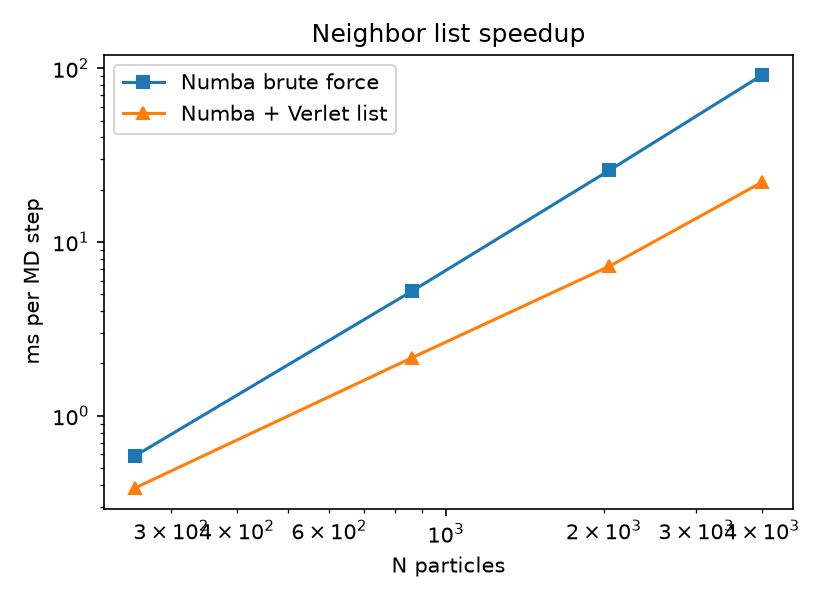
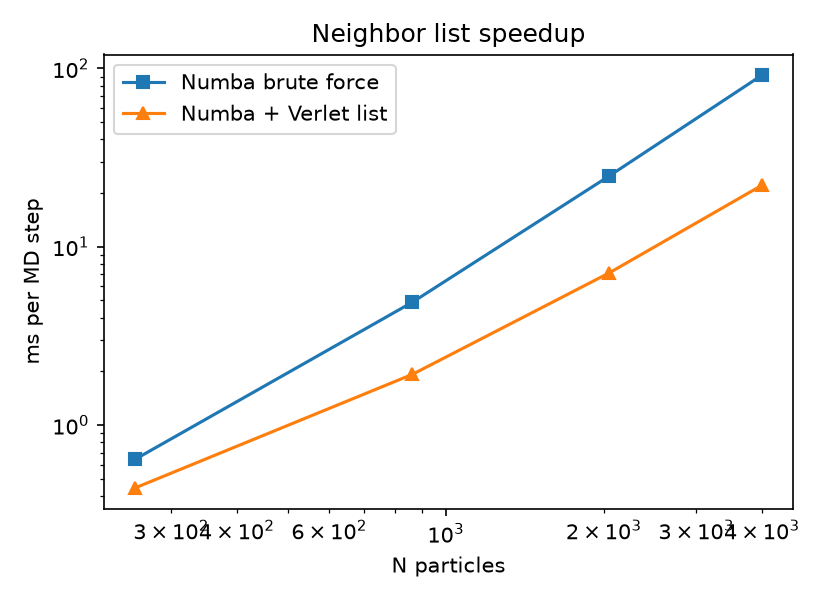
Add O(N) cell-list neighbor list construction and scaling benchmark

diff --git a/src/mdlite/cells.py b/src/mdlite/cells.py
@@ -1,0 +1,72 @@
+"""Cell-list (linked-cell) construction of the Verlet pair list in O(N).
+
+The box is divided into nc^3 cubic cells, each at least r_list wide. Only pairs in the
+same or adjacent cells are examined. Requires nc >= 3 so no neighbor cell is visited twice.
+"""
+
+import math
+
+import numpy as np
+from numba import njit
+
+
+def n_cells_per_dim(box: float, r_list: float) -> int:
+    return int(math.floor(box / r_list))
+
+
+@njit(cache=True)
+def _cell_pairs(pos, box, r_list, nc, fill, pair_i, pair_j):
+    n = pos.shape[0]
+    rl2 = r_list * r_list
+    cell_size = box / nc
+    head = np.full(nc * nc * nc, -1, np.int32)
+    nxt = np.full(n, -1, np.int32)
+    for i in range(n):
+        cx = int(math.floor(pos[i, 0] / cell_size)) % nc
+        cy = int(math.floor(pos[i, 1] / cell_size)) % nc
+        cz = int(math.floor(pos[i, 2] / cell_size)) % nc
+        c = (cx * nc + cy) * nc + cz
+        nxt[i] = head[c]
+        head[c] = i
+    count = 0
+    for cx in range(nc):
+        for cy in range(nc):
+            for cz in range(nc):
+                c = (cx * nc + cy) * nc + cz
+                for ox in range(-1, 2):
+                    for oy in range(-1, 2):
+                        for oz in range(-1, 2):
+                            c2 = (((cx + ox) % nc) * nc + (cy + oy) % nc) * nc + (cz + oz) % nc
+                            i = head[c]
+                            while i != -1:
+                                j = head[c2]
+                                while j != -1:
+                                    if j > i:
+                                        dx = pos[i, 0] - pos[j, 0]
+                                        dy = pos[i, 1] - pos[j, 1]
+                                        dz = pos[i, 2] - pos[j, 2]
+                                        dx -= box * math.floor(dx / box + 0.5)
+                                        dy -= box * math.floor(dy / box + 0.5)
+                                        dz -= box * math.floor(dz / box + 0.5)
+                                        if dx * dx + dy * dy + dz * dz < rl2:
+                                            if fill:
+                                                pair_i[count] = i
+                                                pair_j[count] = j
+                                            count += 1
+                                    j = nxt[j]
+                                i = nxt[i]
+    return count
+
+
+def build_pairs_cells(pos, box, r_list):
+    """Return (pair_i, pair_j) with i < j for all pairs closer than r_list."""
+    nc = n_cells_per_dim(box, r_list)
+    if nc < 3:
+        raise ValueError("cell list needs at least 3 cells per dimension")
+    pos = np.ascontiguousarray(pos, dtype=np.float64)
+    dummy = np.empty(0, dtype=np.int32)
+    count = _cell_pairs(pos, float(box), float(r_list), nc, False, dummy, dummy)
+    pair_i = np.empty(count, dtype=np.int32)
+    pair_j = np.empty(count, dtype=np.int32)
+    _cell_pairs(pos, float(box), float(r_list), nc, True, pair_i, pair_j)
+    return pair_i, pair_j

diff --git a/benchmarks/bench_scaling.py b/benchmarks/bench_scaling.py
@@ -1,0 +1,73 @@
+"""Benchmark: scaling of cost per MD step for the three force strategies."""
+
+import csv
+import time
+
+import matplotlib
+matplotlib.use("Agg")
+import matplotlib.pyplot as plt
+import numpy as np
+
+from mdlite.forces_numba import compute_forces_numba
+from mdlite.integrators import run_nve
+from mdlite.neighbor import VerletListForces
+from mdlite.system import create_fcc_system
+
+N_STEPS = 100
+DT = 0.005
+CELLS = [4, 6, 8, 10, 14, 18]
+MAX_N_ALLPAIRS = 4000
+MAX_N_LIST_BRUTE = 11000
+
+# warm-up: compile everything outside the timed regions
+for fn in (compute_forces_numba, VerletListForces(use_cells=False), VerletListForces(use_cells=True)):
+    run_nve(create_fcc_system(5, 0.8, 1.0, seed=1), 5, DT, force_fn=fn)
+
+
+def time_steps(n_cells, make_fn):
+    s = create_fcc_system(n_cells, 0.8, 1.0, seed=1)
+    fn = make_fn()
+    t0 = time.perf_counter()
+    run_nve(s, N_STEPS, DT, force_fn=fn)
+    return 1000.0 * (time.perf_counter() - t0) / N_STEPS
+
+
+results = {"allpairs": [], "list_brute_build": [], "list_cell_build": []}
+print(f"{'N':>6} {'all-pairs':>11} {'list (N^2 build)':>17} {'list (cell build)':>18}   ms/step")
+for nc in CELLS:
+    n = 4 * nc ** 3
+    row = [n]
+    if n <= MAX_N_ALLPAIRS:
+        t = time_steps(nc, lambda: compute_forces_numba)
+        results["allpairs"].append((n, t)); row.append(f"{t:11.3f}")
+    else:
+        row.append(f"{'-':>11}")
+    if n <= MAX_N_LIST_BRUTE:
+        t = time_steps(nc, lambda: VerletListForces(0.3, use_cells=False))
+        results["list_brute_build"].append((n, t)); row.append(f"{t:17.3f}")
+    else:
+        row.append(f"{'-':>17}")
+    t = time_steps(nc, lambda: VerletListForces(0.3, use_cells=True))
+    results["list_cell_build"].append((n, t)); row.append(f"{t:18.3f}")
+    print(f"{row[0]:>6} {row[1]} {row[2]} {row[3]}")
+
+labels = {"allpairs": "Numba all-pairs", "list_brute_build": "Verlet list, O(N^2) build",
+          "list_cell_build": "Verlet list + cell list"}
+with open("benchmarks/scaling.csv", "w", newline="") as f:
+    w = csv.writer(f)
+    w.writerow(["method", "N", "ms_per_step"])
+    for k, v in results.items():
+        for n, t in v:
+            w.writerow([k, n, t])
+
+plt.figure(figsize=(6, 4.5))
+for k, v in results.items():
+    arr = np.array(v)
+    slope = np.polyfit(np.log(arr[-3:, 0]), np.log(arr[-3:, 1]), 1)[0]
+    print(f"Scaling exponent (largest 3 sizes) {labels[k]}: N^{slope:.2f}")
+    plt.loglog(arr[:, 0], arr[:, 1], "o-", label=f"{labels[k]} (~N^{slope:.2f})")
+plt.xlabel("N particles"); plt.ylabel("ms per MD step"); plt.legend()
+plt.title("MD step cost vs system size")
+plt.tight_layout()
+plt.savefig("benchmarks/scaling.png", dpi=150)
+print("Saved benchmarks/scaling.csv and .png")

diff --git a/tests/test_cells.py b/tests/test_cells.py
@@ -1,0 +1,56 @@
+import numpy as np
+
+from mdlite.cells import build_pairs_cells, n_cells_per_dim
+from mdlite.forces_numba import compute_forces_numba
+from mdlite.integrators import run_nve
+from mdlite.neighbor import VerletListForces, _build_pairs
+from mdlite.system import create_fcc_system
+
+
+def _perturbed(n_cells, seed):
+    s = create_fcc_system(n_cells, density=0.8, temperature=1.0, seed=seed)
+    s.positions += np.random.default_rng(seed).normal(0, 0.08, s.positions.shape)
+    s.wrap()
+    return s
+
+
+def _as_set(pi, pj):
+    return set(zip(pi.tolist(), pj.tolist()))
+
+
+def test_cell_path_is_actually_active_for_5_cells():
+    s = _perturbed(5, 1)
+    assert n_cells_per_dim(s.box, 2.8) >= 3
+
+
+def test_cell_pairs_equal_brute_pairs():
+    s = _perturbed(5, 2)
+    pi, pj = build_pairs_cells(s.positions, s.box, 2.8)
+    bi, bj = _build_pairs(s.positions, s.box, 2.8)
+    assert _as_set(pi, pj) == _as_set(bi, bj)
+    assert len(_as_set(pi, pj)) == len(pi)   # no duplicates
+
+
+def test_forces_with_cell_list_match_brute_force():
+    s = _perturbed(5, 3)
+    f_ref, u_ref, w_ref = compute_forces_numba(s.positions, s.box)
+    f, u, w = VerletListForces(skin=0.3, use_cells=True)(s.positions, s.box)
+    assert np.allclose(f, f_ref, atol=1e-9)
+    assert np.isclose(u, u_ref) and np.isclose(w, w_ref)
+
+
+def test_trajectory_with_cell_list_matches_brute_force():
+    a = create_fcc_system(5, density=0.8, temperature=2.0, seed=11)
+    b = create_fcc_system(5, density=0.8, temperature=2.0, seed=11)
+    run_nve(a, n_steps=200, dt=0.005, force_fn=compute_forces_numba)
+    run_nve(b, n_steps=200, dt=0.005, force_fn=VerletListForces(skin=0.3, use_cells=True))
+    d = a.positions - b.positions
+    d -= a.box * np.round(d / a.box)
+    assert np.abs(d).max() < 1e-6
+
+
+def test_small_box_falls_back_to_brute_build():
+    s = _perturbed(4, 4)   # box ~6.8 -> only 2 cells per side
+    f_ref, _, _ = compute_forces_numba(s.positions, s.box)
+    f, _, _ = VerletListForces(skin=0.3, use_cells=True)(s.positions, s.box)
+    assert np.allclose(f, f_ref, atol=1e-9)

diff --git a/src/mdlite/neighbor.py b/src/mdlite/neighbor.py
@@ -7,6 +7,7 @@ which guarantees no pair can enter the cutoff sphere without being in the list.
 import math
 
 import numpy as np
+from mdlite.cells import build_pairs_cells, n_cells_per_dim
 from numba import njit
 
 
@@ -100,8 +101,9 @@ class VerletListForces:
     Holds the neighbor list as state, so create one instance per simulation.
     """
 
-    def __init__(self, skin: float = 0.3):
+    def __init__(self, skin: float = 0.3, use_cells: bool = True):
         self.skin = float(skin)
+        self.use_cells = bool(use_cells)
         self.pair_i = None
         self.pair_j = None
         self._ref = None
@@ -118,7 +120,11 @@ class VerletListForces:
         return _max_displacement2(pos, self._ref, box) > half_skin * half_skin
 
     def _build(self, pos, box, r_cut):
-        self.pair_i, self.pair_j = _build_pairs(pos, box, r_cut + self.skin)
+        r_list = r_cut + self.skin
+        if self.use_cells and n_cells_per_dim(box, r_list) >= 3:
+            self.pair_i, self.pair_j = build_pairs_cells(pos, box, r_list)
+        else:
+            self.pair_i, self.pair_j = _build_pairs(pos, box, r_list)
         self._ref = pos.copy()
         self._box = box
         self._r_cut = r_cut
